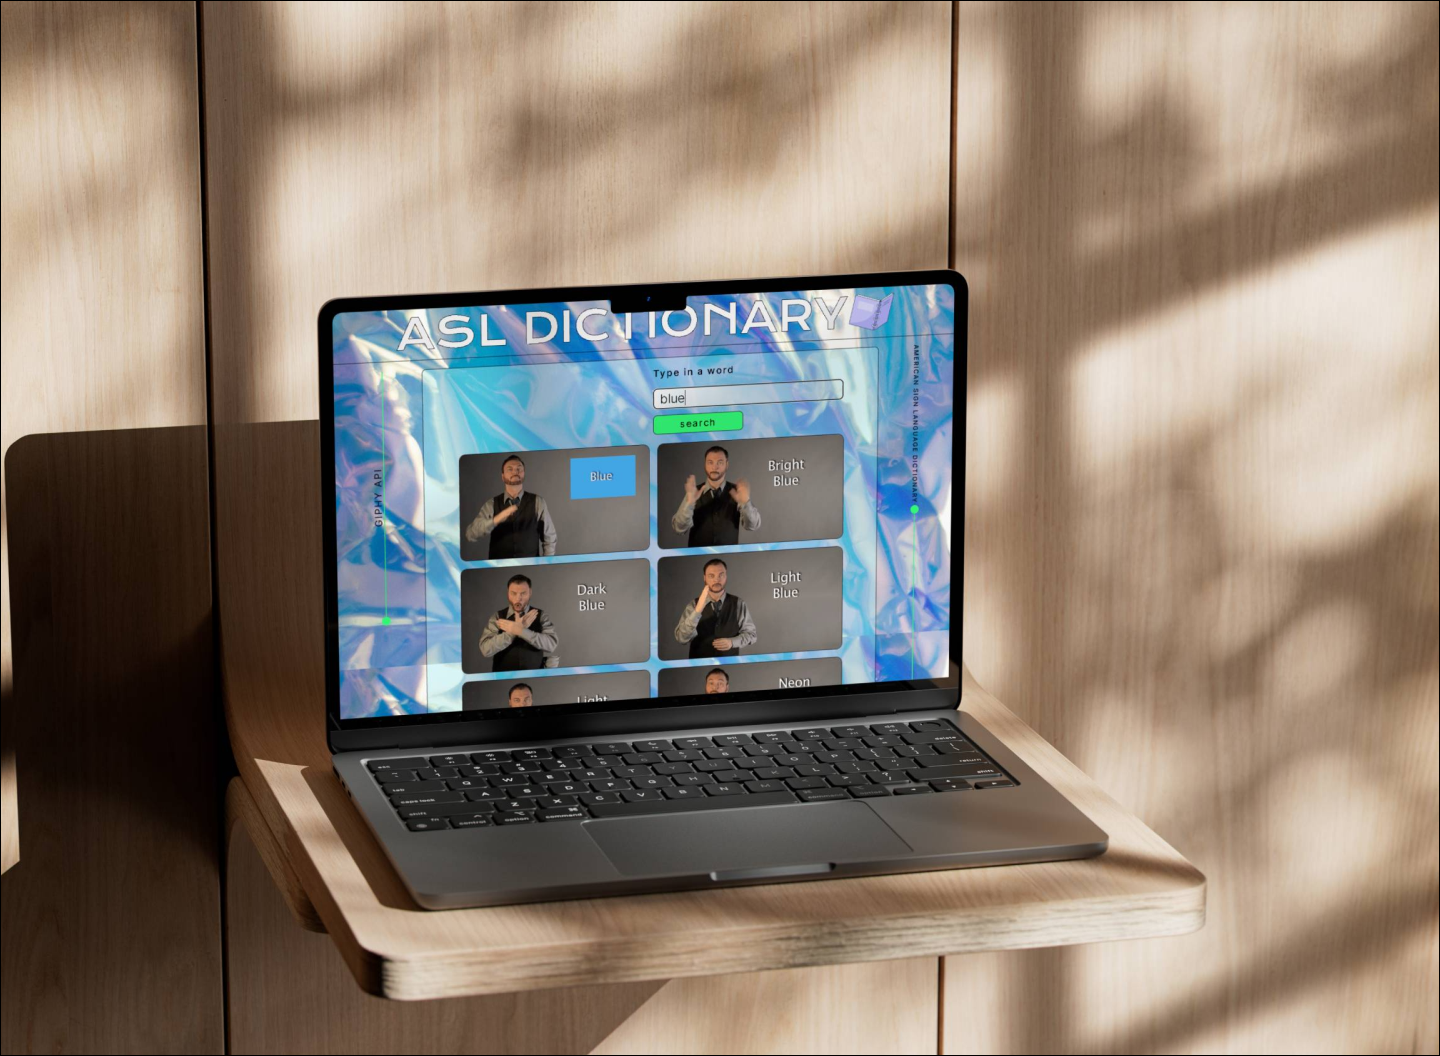
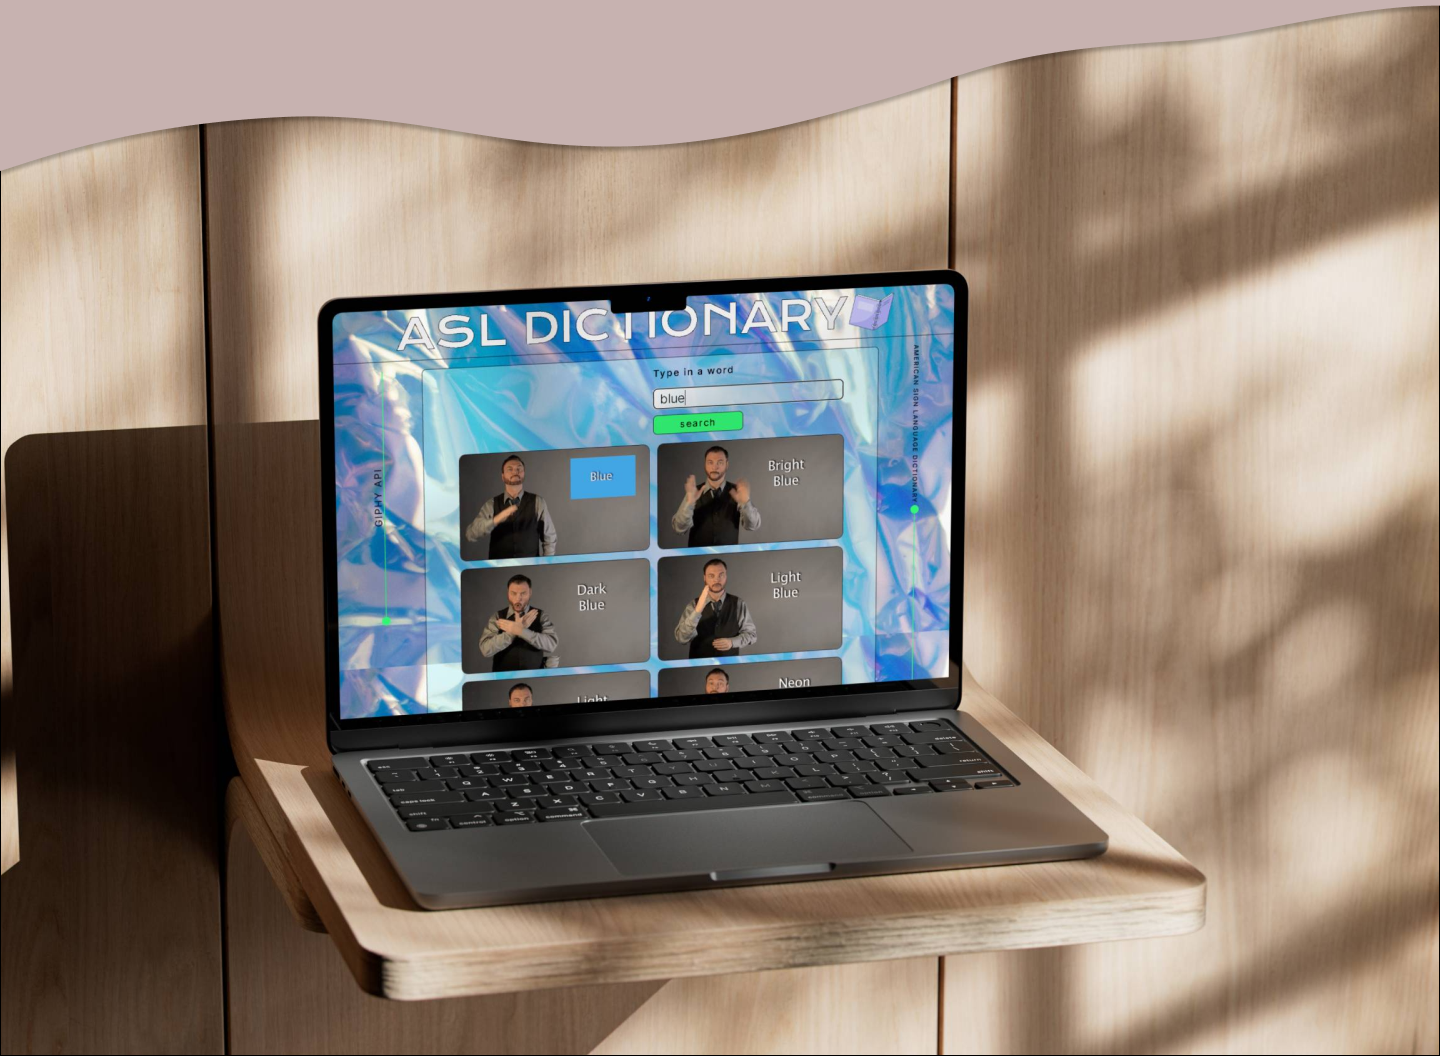
finishing styling touches

Changed region(s): [[0.0, 0.0, 1.0, 0.1562]]

diff --git a/src/components/ProjectThreeHome.jsx b/src/components/ProjectThreeHome.jsx
@@ -11,21 +11,19 @@ export default function ProjectThreeHome() {
         height: "1100px",
       }}
     >
+      <p
+        style={{
+          color: "#322F32",
+          fontSize: "3.2rem",
+          fontWeight: "400",
+          letterSpacing: "2.56px",
+          paddingTop: "156px",
+          paddingLeft: "156px",
+        }}
+      >
+        PROJECT 3
+      </p>
       <div className="project-three-home-text">
-        <div>
-          <p
-            style={{
-              color: "#322F32",
-              fontSize: "3.2rem",
-              fontWeight: "400",
-              letterSpacing: "2.56px",
-              paddingTop: "156px",
-              paddingLeft: "156px",
-            }}
-          >
-            PROJECT 3
-          </p>
-        </div>
         <div className="project-three-paragraphs">
           <p className="small-caps3">LEARNING</p>
           <h2>Sign Language App</h2>
@@ -35,8 +33,8 @@ export default function ProjectThreeHome() {
           </p>
           <p>
             This app fetches data from the
-            <span className="bold-text"> Giphy API</span>, pulling from one Giphy
-            user's channel (@signwithrobert).
+            <span className="bold-text"> Giphy API</span>, pulling from one
+            Giphy user's channel (@signwithrobert).
           </p>
           <p>
             Try to learn some signs here{" "}

diff --git a/src/App.css b/src/App.css
@@ -1,7 +1,7 @@
 html {
   font-size: 62.5%;
   font-family: Poppins;
-  background-color: #dcd7d3;
+  background-color: #c7b2b0;
 }
 
 body {
@@ -128,7 +128,6 @@ nav ul {
 .project-two {
   background-color: #c7b2b0;
   color: #1e1e1e;
-  margin-top: -36px;
 }
 
 .project-two-paragraphs {
@@ -146,6 +145,8 @@ nav ul {
   align-items: center;
   gap: 24px;
 }
+
+/* SVG */
 
 .svg2 {
   width: 100%;
@@ -166,7 +167,13 @@ nav ul {
 /* Project 3 (ASL App) */
 
 .project-three-home {
-  margin-top: -208px;
+  /* margin-top: -208px; */
+}
+
+.project-three-home-text {
+  display: flex;
+  justify-content: end;
+  padding-right: 156px;
 }
 
 .small-caps3 {
@@ -185,12 +192,22 @@ nav ul {
 
 /* Art Gallery */
 
-.art-gallery {
-  margin-top: -20px;
+.art-paragraphs {
+  padding: 40px 0 0 156px;
 }
 
+.art-sentence {
+  color: #dcd7d3;
+  font-size: 2.4rem;
+}
+
+.last-sentence {
+  color: #dcd7d3;
+  margin: 680px 0 0 156px;
+  font-size: 1.4rem;
+}
 .small-caps4 {
-  color: #48DCB0;
+  color: #48dcb0;
   letter-spacing: 2.56px;
 }
 
@@ -210,4 +227,3 @@ nav ul {
   list-style: none;
   gap: 40px;
 }
-

diff --git a/src/components/ArtGallery.jsx b/src/components/ArtGallery.jsx
@@ -11,10 +11,16 @@ export default function ArtGallery() {
         height: "951px",
       }}
     >
-      <p className="small-caps4">FUN FACT</p>
-      <p>
-        I enjoy drawing by hand <br />
-        in my free time.
+      <div className="art-paragraphs">
+        <p className="small-caps4">FUN FACT</p>
+        <p className="art-sentence">
+          I enjoy drawing by hand <br />
+          in my free time.
+        </p>
+      </div>
+      <p className="last-sentence">
+        I appreciate a good, honest, direct critique. It would be great <br />
+        if you expressed what you thought about this portfolio site.
       </p>
     </div>
   );

diff --git a/src/routes/Work.jsx b/src/routes/Work.jsx
@@ -3,7 +3,6 @@ import ProjectOneHome from "../components/ProjectOneHome";
 import WorkGreeting from "../components/WorkGreeting";
 import TalonUI from "../components/TalonUI";
 import ProjectTwoHome from "../components/ProjectTwoHome";
-import SVG2 from "../components/SVG2";
 import ProjectThreeHome from "../components/ProjectThreeHome";
 import ArtGallery from "../components/ArtGallery";
 
@@ -14,7 +13,6 @@ export default function Work() {
       <ProjectOneHome />
       <TalonUI />
       <ProjectTwoHome />
-      <SVG2 />
       <ProjectThreeHome />
       <ArtGallery />
     </div>

diff --git a/src/components/ProjectTwoHome.jsx b/src/components/ProjectTwoHome.jsx
@@ -9,7 +9,7 @@ export default function ProjectTwoHome() {
           fontSize: "3.2rem",
           fontWeight: "400",
           letterSpacing: "2.56px",
-          paddingTop: "156px",
+          paddingTop: "96px",
           paddingLeft: "156px",
         }}
       >
